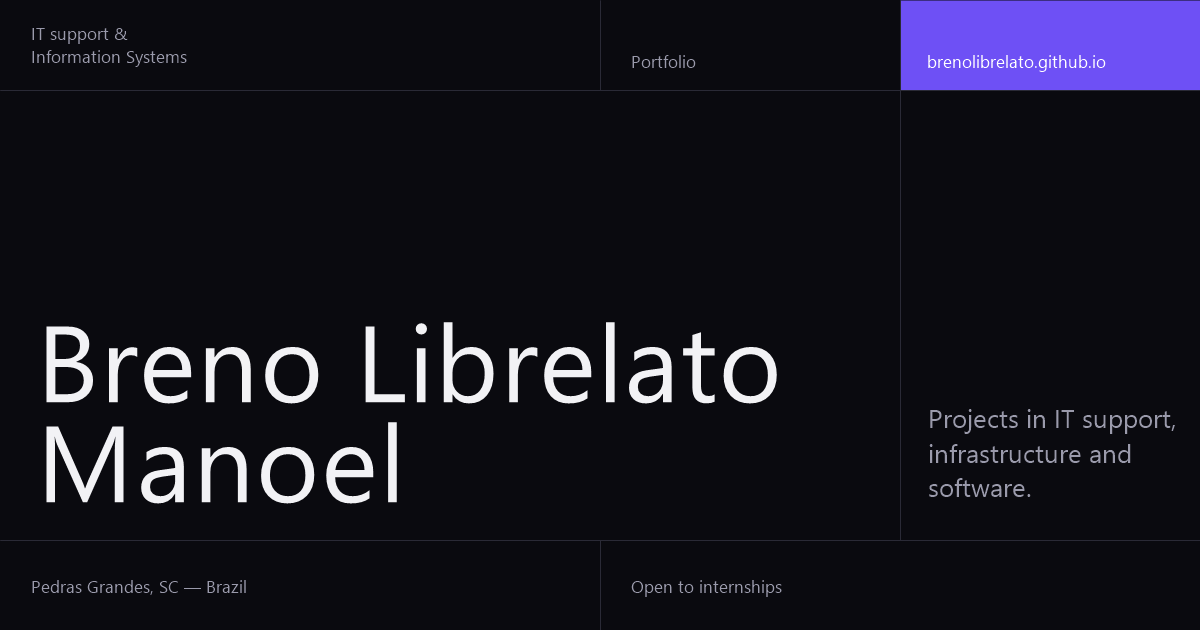
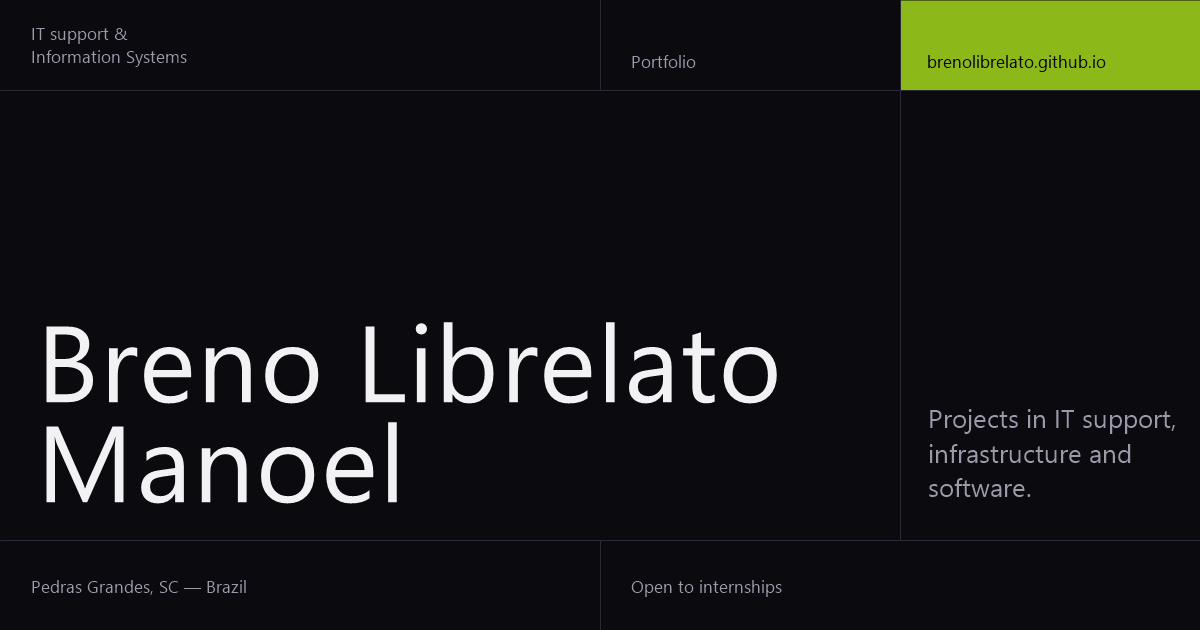
Troca o destaque roxo por lima (#8cb81a)
Claude-Session: https://claude.ai/code/session_01NxQJVJoLiXHt88Go6WEkzL

Changed region(s): [[0.74, 0.0, 1.0, 0.1508]]

diff --git a/styles.css b/styles.css
@@ -20,9 +20,10 @@
   --color-surface: #14141c;
   --color-text: #f2f2f5;
   --color-text-muted: #9a9aab;
-  --color-primary: #6e50f5;       /* fills with white text (5.1:1) */
-  --color-primary-hover: #5d3fe0;
-  --color-primary-text: #9d86ff;  /* accent text on dark backgrounds (6.4:1) */
+  --color-primary: #8cb81a;       /* lime accent: 8.5:1 on the background */
+  --color-primary-hover: #7aa314;
+  --color-primary-text: #8cb81a;  /* accent text on dark backgrounds (8.5:1) */
+  --color-on-primary: #0a0a0f;    /* text on lime fills (8.5:1) */
   --color-line: #2a2a36;
 
   --font-main: 'Inter', -apple-system, BlinkMacSystemFont, sans-serif;
@@ -161,7 +162,7 @@ button:hover .arrow {
   justify-content: flex-end;
   gap: 4px;
   background: var(--color-primary);
-  color: #fff;
+  color: var(--color-on-primary);
   transition: background 0.2s ease;
 }
 
@@ -170,12 +171,12 @@ button:hover .arrow {
 }
 
 .cta-block .meta {
-  color: rgba(255, 255, 255, 0.92); /* lowest opacity that keeps 4.5:1 on the purple */
+  color: var(--color-on-primary);
 }
 
-/* A purple outline would vanish on the purple block */
+/* A lime outline would vanish on the lime block */
 .cta-block:focus-visible {
-  outline-color: #fff;
+  outline-color: var(--color-on-primary);
 }
 
 /* =========================================================
@@ -233,7 +234,7 @@ button:hover .arrow {
 
 /* The Contact block stays solid; a line under it marks it as active */
 .topbar .cta-block.active {
-  box-shadow: inset 0 -3px 0 #fff;
+  box-shadow: inset 0 -3px 0 var(--color-on-primary);
 }
 
 /* =========================================================

diff --git a/.claude/skills/awwwards-design/SKILL.md b/.claude/skills/awwwards-design/SKILL.md
@@ -18,7 +18,7 @@ reproduza layouts, textos, imagens ou identidade de sites premiados.
 - HTML, CSS e JavaScript puros, sem build e sem framework. Publicado no GitHub Pages.
 - Cores, fonte e raio sempre pelas variáveis em `:root` no `styles.css`. Nova cor
   vira nova variável; nunca valores soltos no meio do CSS.
-- Identidade atual: tema escuro, destaque roxo `--color-primary` (#7c5cff), fonte Inter,
+- Identidade atual: tema escuro, destaque lima `--color-primary` (#8cb81a, texto escuro `--color-on-primary` sobre ele), fonte Inter,
   navegação por abas sem scroll. Evolua essa identidade; não troque por outra sem o
   Breno pedir.
 
@@ -32,7 +32,7 @@ O layout segue a *estrutura* do Sincro, adaptada ao tema escuro:
 - **Um só peso de fonte (400)**: hierarquia só por tamanho (`--fs-display`, `--fs-title`,
   `--fs-lead`, `--fs-body`, `--fs-small`). Nada de negrito.
   Tipos grandes com `letter-spacing` negativo.
-- **Blocos sólidos de destaque** (`.cta-block`) em roxo, com seta `↗` no canto superior
+- **Blocos sólidos de destaque** (`.cta-block`) em lima, com seta `↗` no canto superior
   direito, para as ações principais.
 - Índices pequenos (`.index`: 01, 02…) só na lista de projetos; o Breno não quer
   números nas seções nem faixa de estatísticas na Home.
